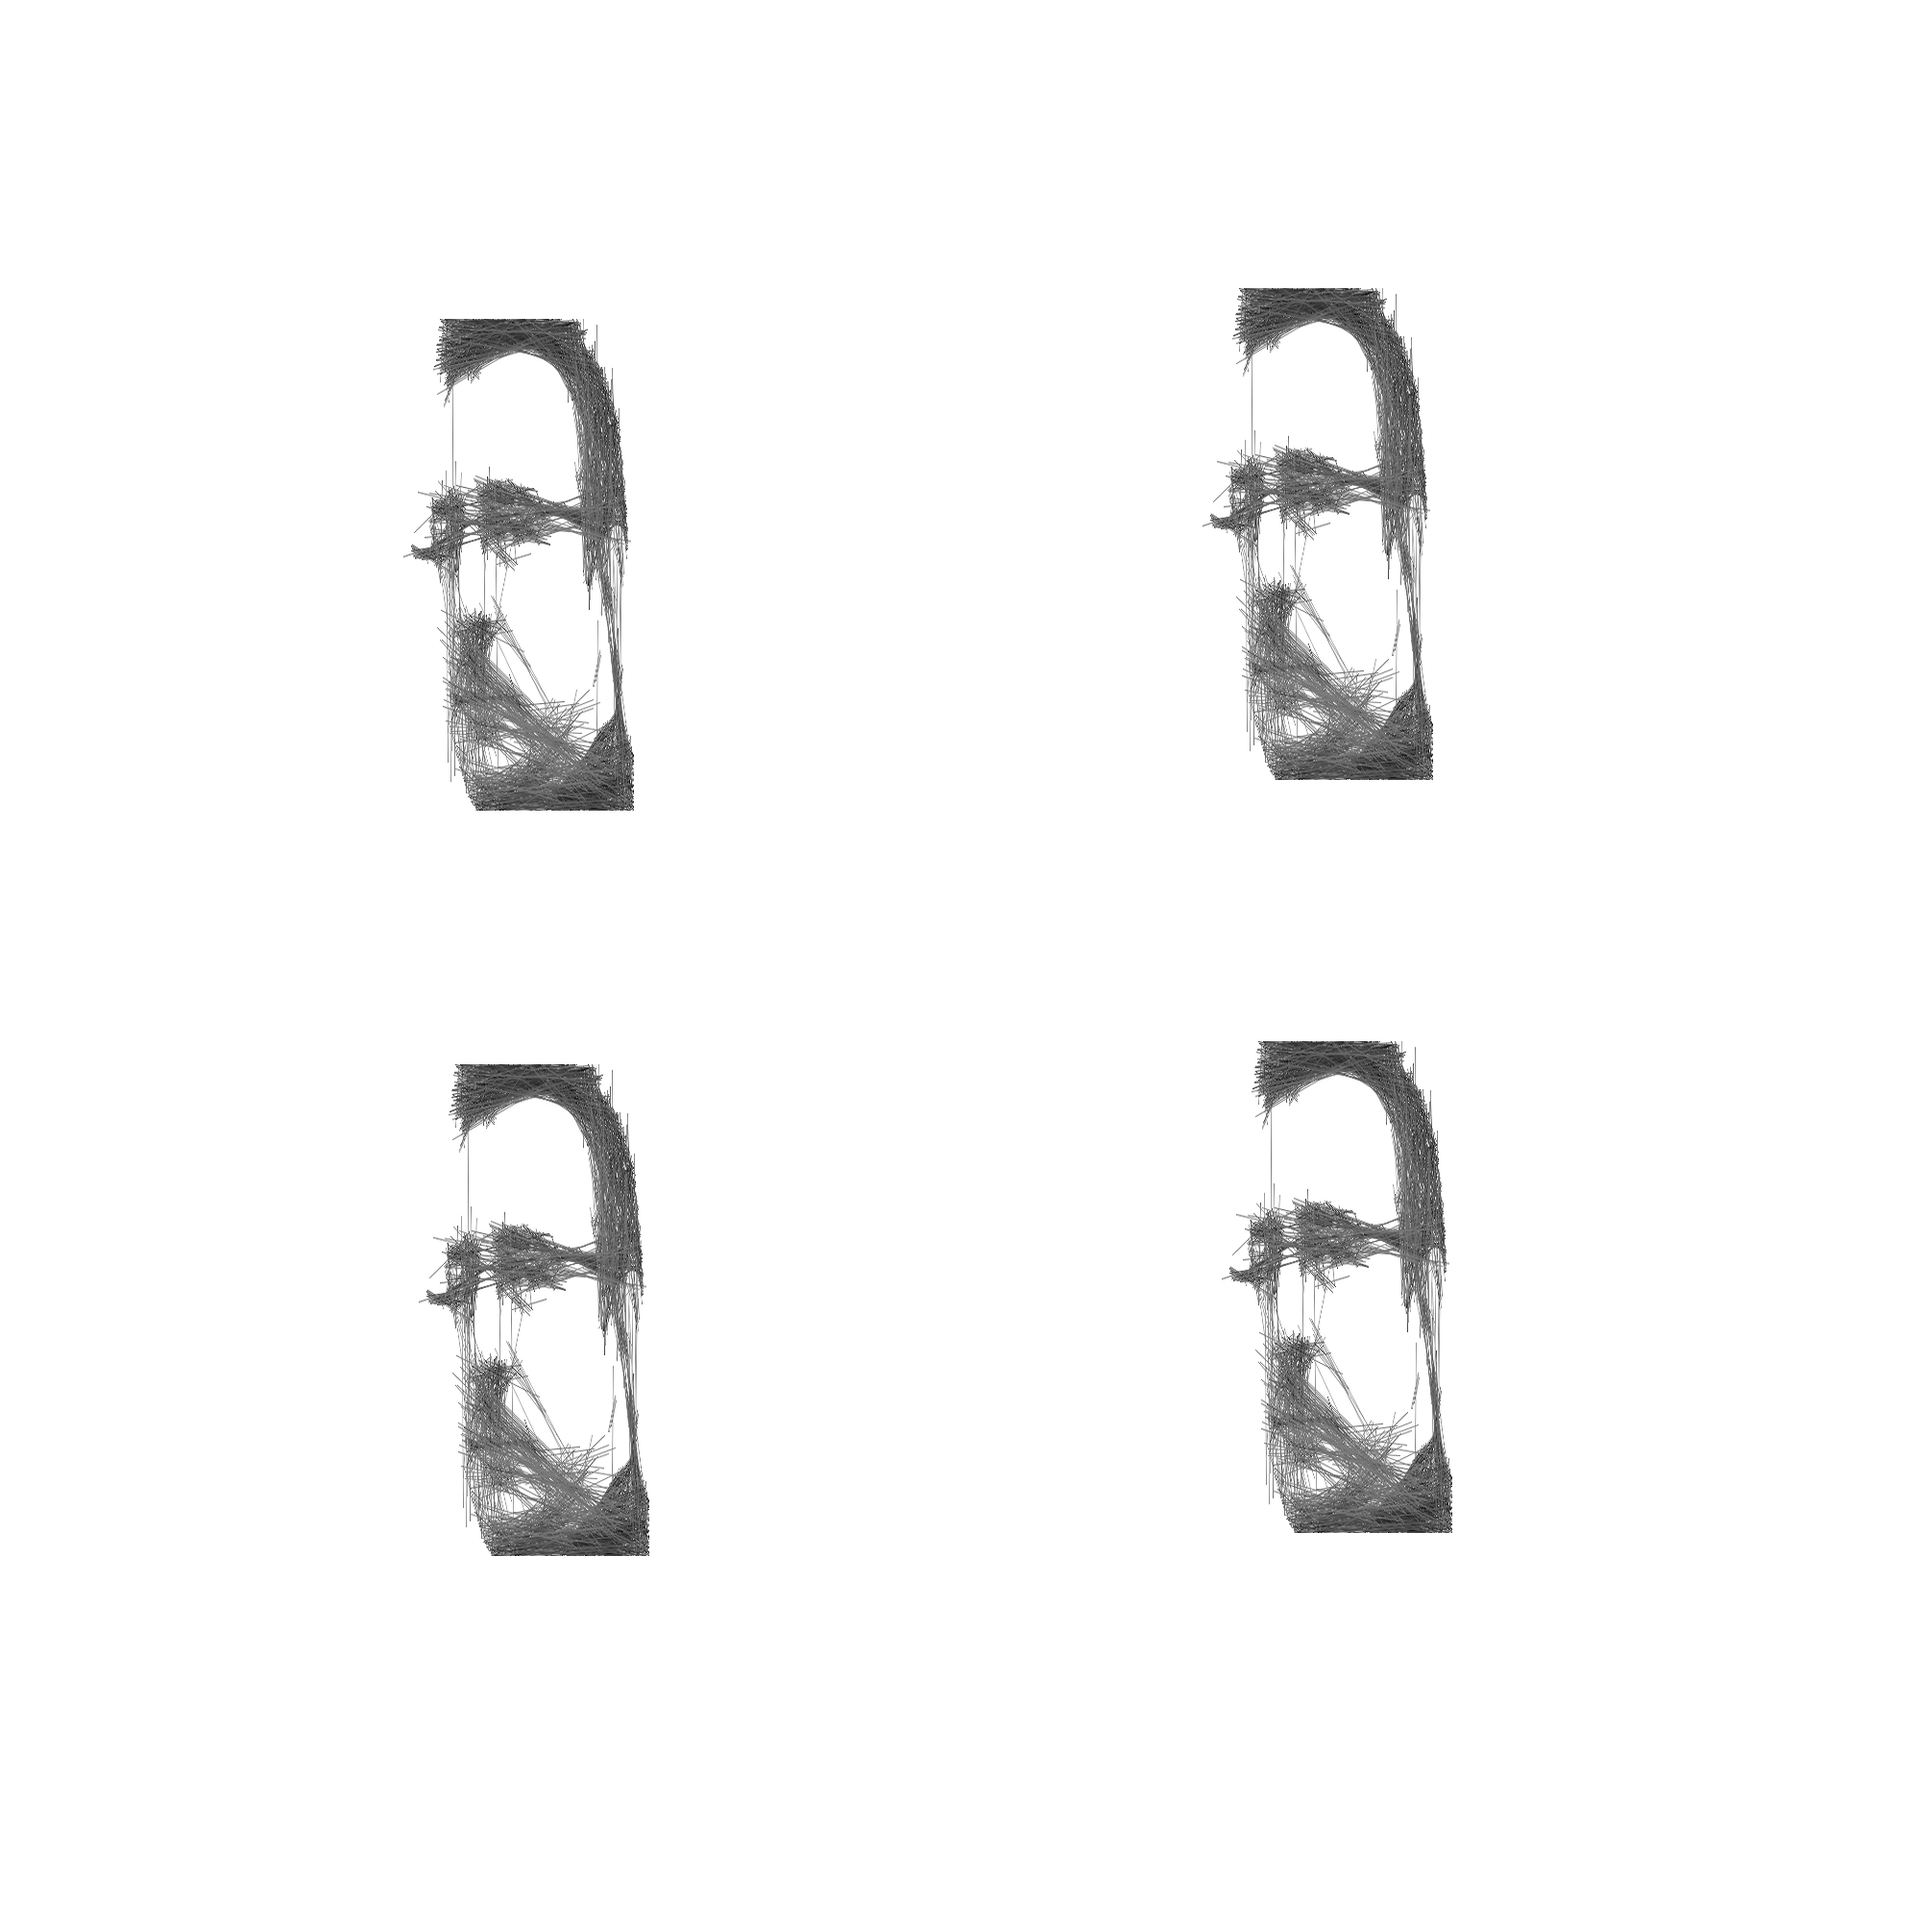
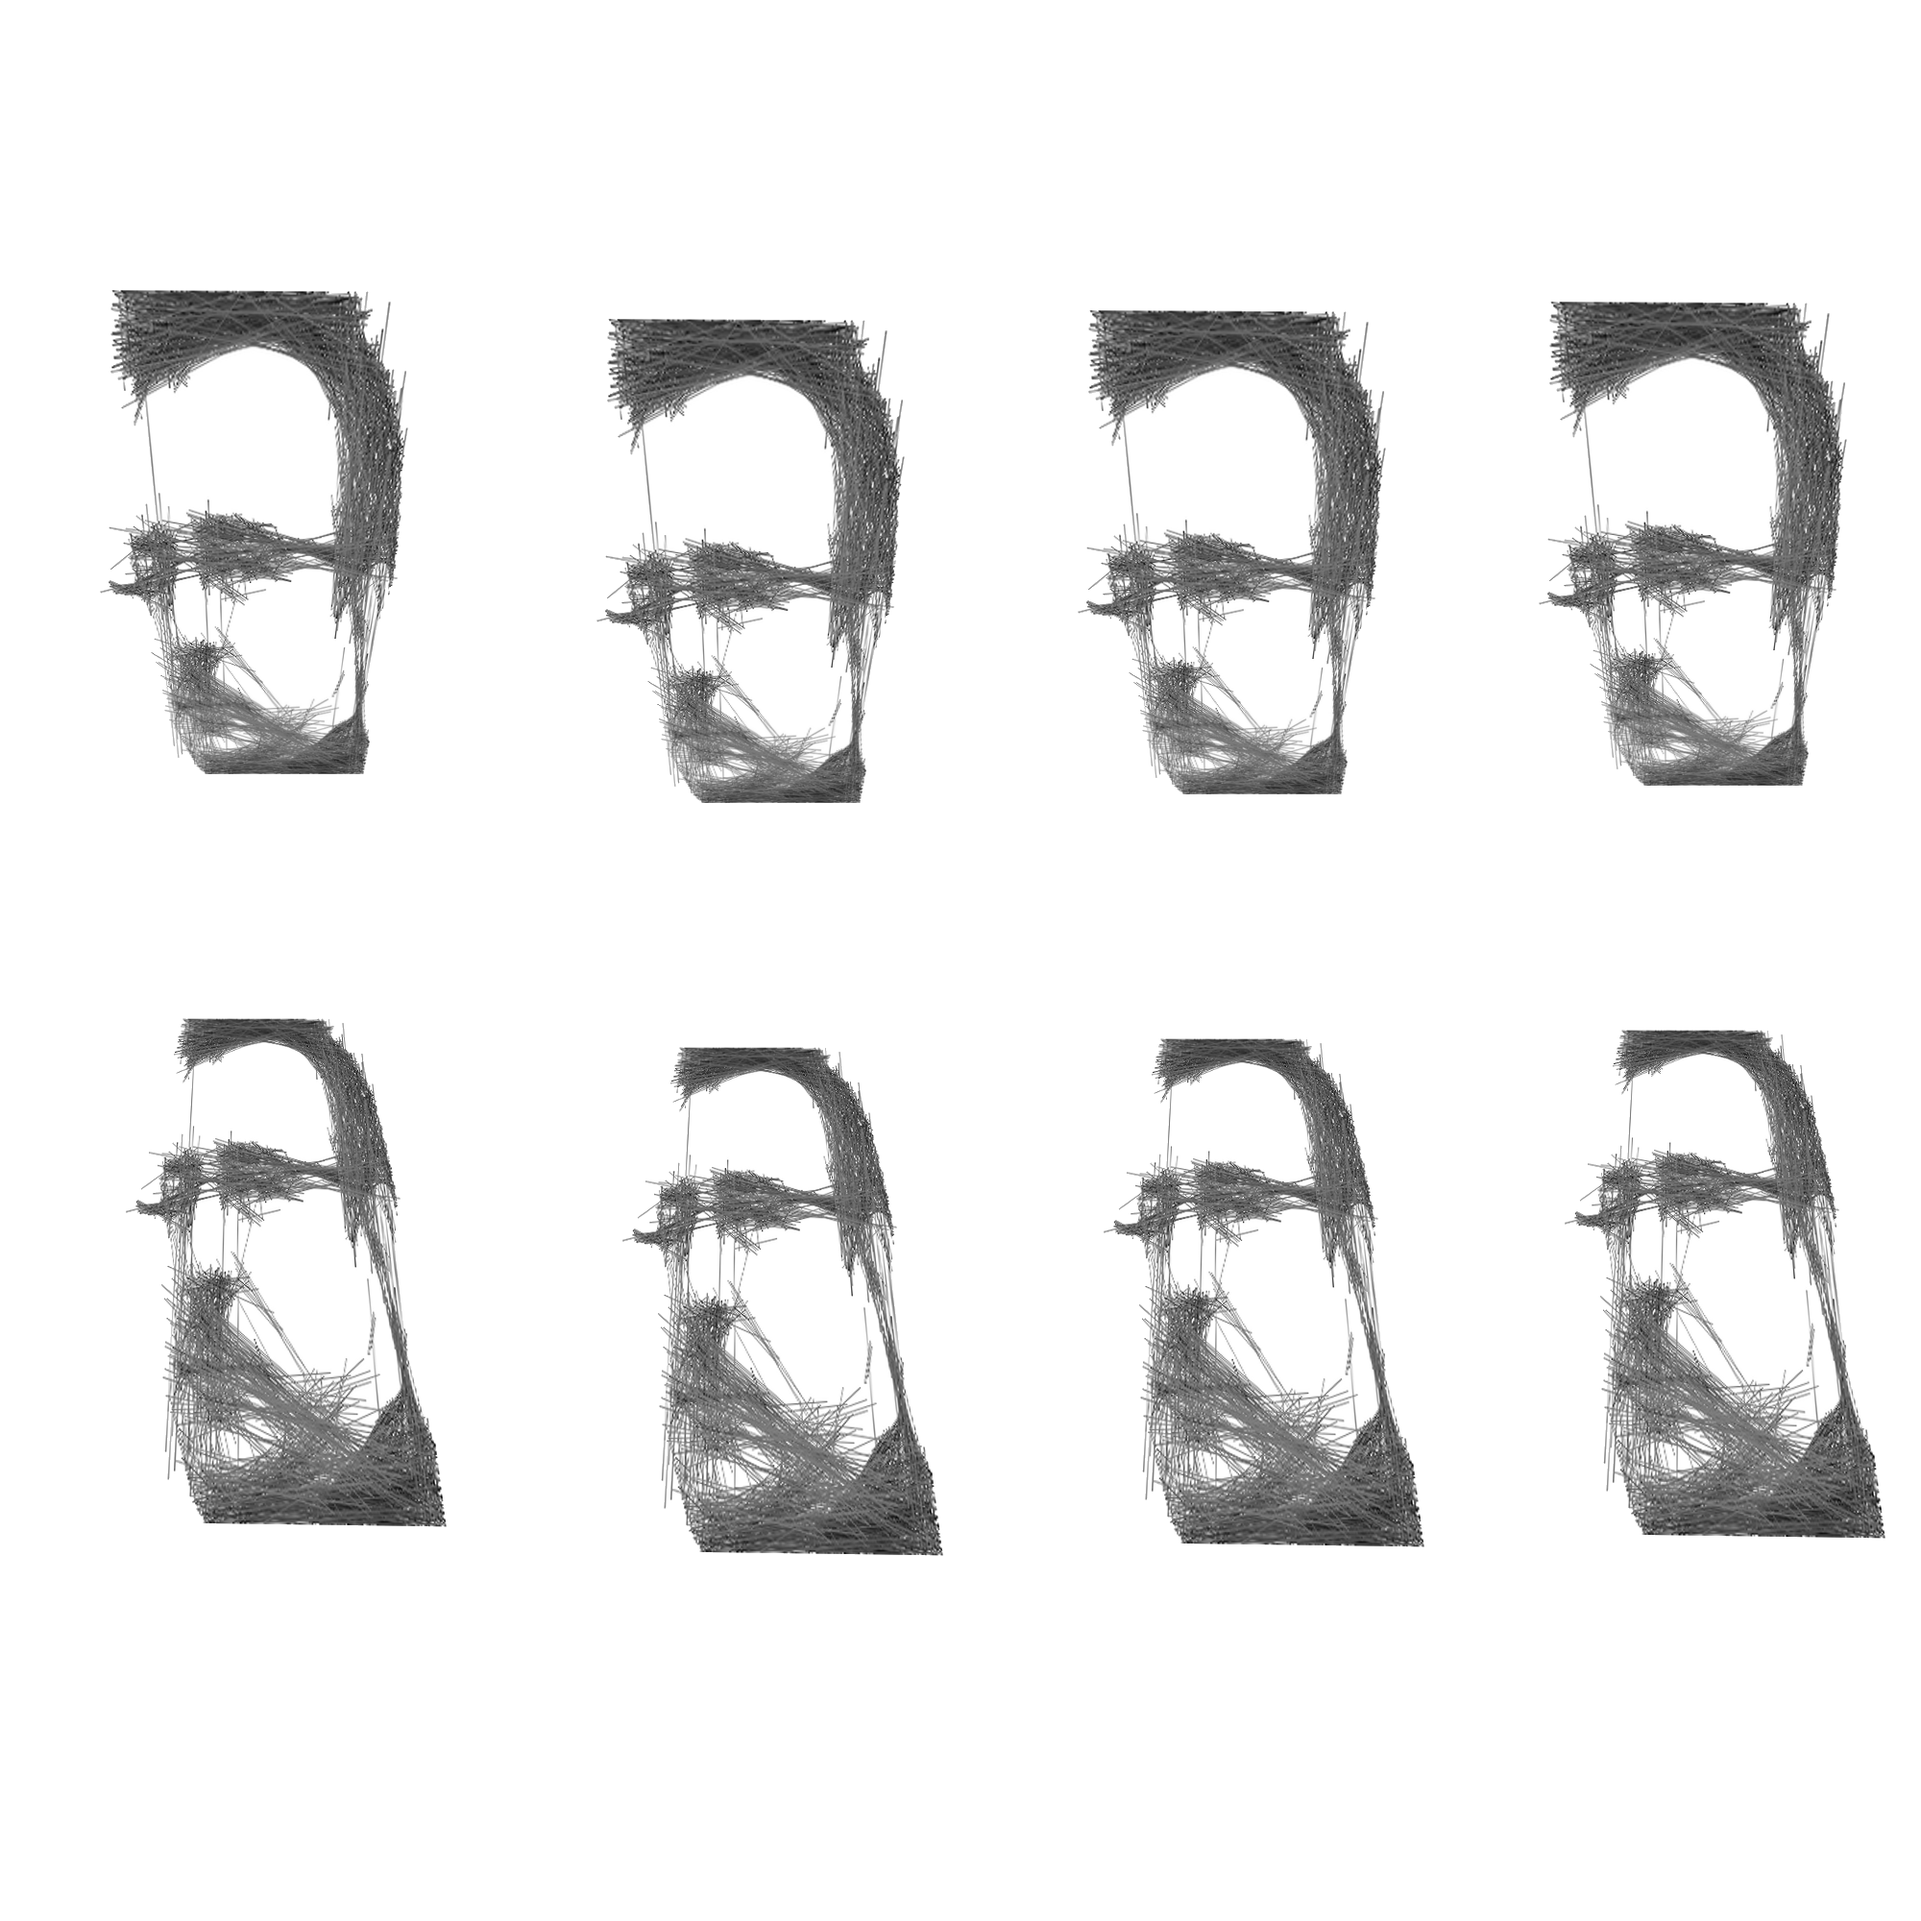
trying to increase drawing depth

diff --git a/game.cs b/game.cs
@@ -24,7 +24,7 @@ namespace Template_P3 {
 	    ScreenQuad quad;				// screen filling quad for post processing
 	    bool useRenderTarget = true;
         SceneGraph scenegraph;          // scene graph containing all models
-        float speed = 1f;               // camera movementspeed modifier
+        float speed = 3f;               // camera movementspeed modifier
 
         // initialize
         public void Init()
@@ -72,21 +72,26 @@ namespace Template_P3 {
             floor.modelMatrix = Matrix4.CreateTranslation(0, -4, -15);
             
 
-            earth.modelMatrix *= Matrix4.Rotate(new Vector3(0, 0, 1), PI);
-            earth.modelMatrix *= Matrix4.CreateTranslation(0, 0, -600);
            
-            moon.modelMatrix = Matrix4.CreateTranslation(-600, 0, 0);
+            earth.modelMatrix *= Matrix4.CreateTranslation(0, 0, -600);
+            earth.modelMatrix *= Matrix4.Rotate(new Vector3(0, 0, 1), PI);
+
+            moon.modelMatrix *= Matrix4.CreateTranslation(-600, 0, 0);
+
+            
+            teapot.modelMatrix *= Matrix4.CreateTranslation(700, 0, 0 );
+            teapot.modelMatrix *= Matrix4.Rotate(new Vector3(1, 0, 0), PI);
+
 
             // setting parents
-
             teapot.Parent = earth;
             moon.Parent = earth;
 
             // setting textures
             floor.texture = wood;
-            teapot.texture = the_bikker;
+            teapot.texture = marble;
             earth.texture = earthTexture;
-            moon.texture = the_bikker;
+            moon.texture = moonTexture;
 
             // adding names for showing the tree structure
             teapot.name = "floor";

diff --git a/template.cs b/template.cs
@@ -66,7 +66,7 @@ namespace Template_P3 {
                            OpenTK.Graphics.OpenGL.PixelFormat.Bgra, 
                            PixelType.UnsignedByte, game.screen.pixels 
                            );
-            // GL.Clear( ClearBufferMask.ColorBufferBit ); /* not needed */
+            
             GL.MatrixMode( MatrixMode.Modelview );
             GL.LoadIdentity();
             GL.MatrixMode( MatrixMode.Projection );
